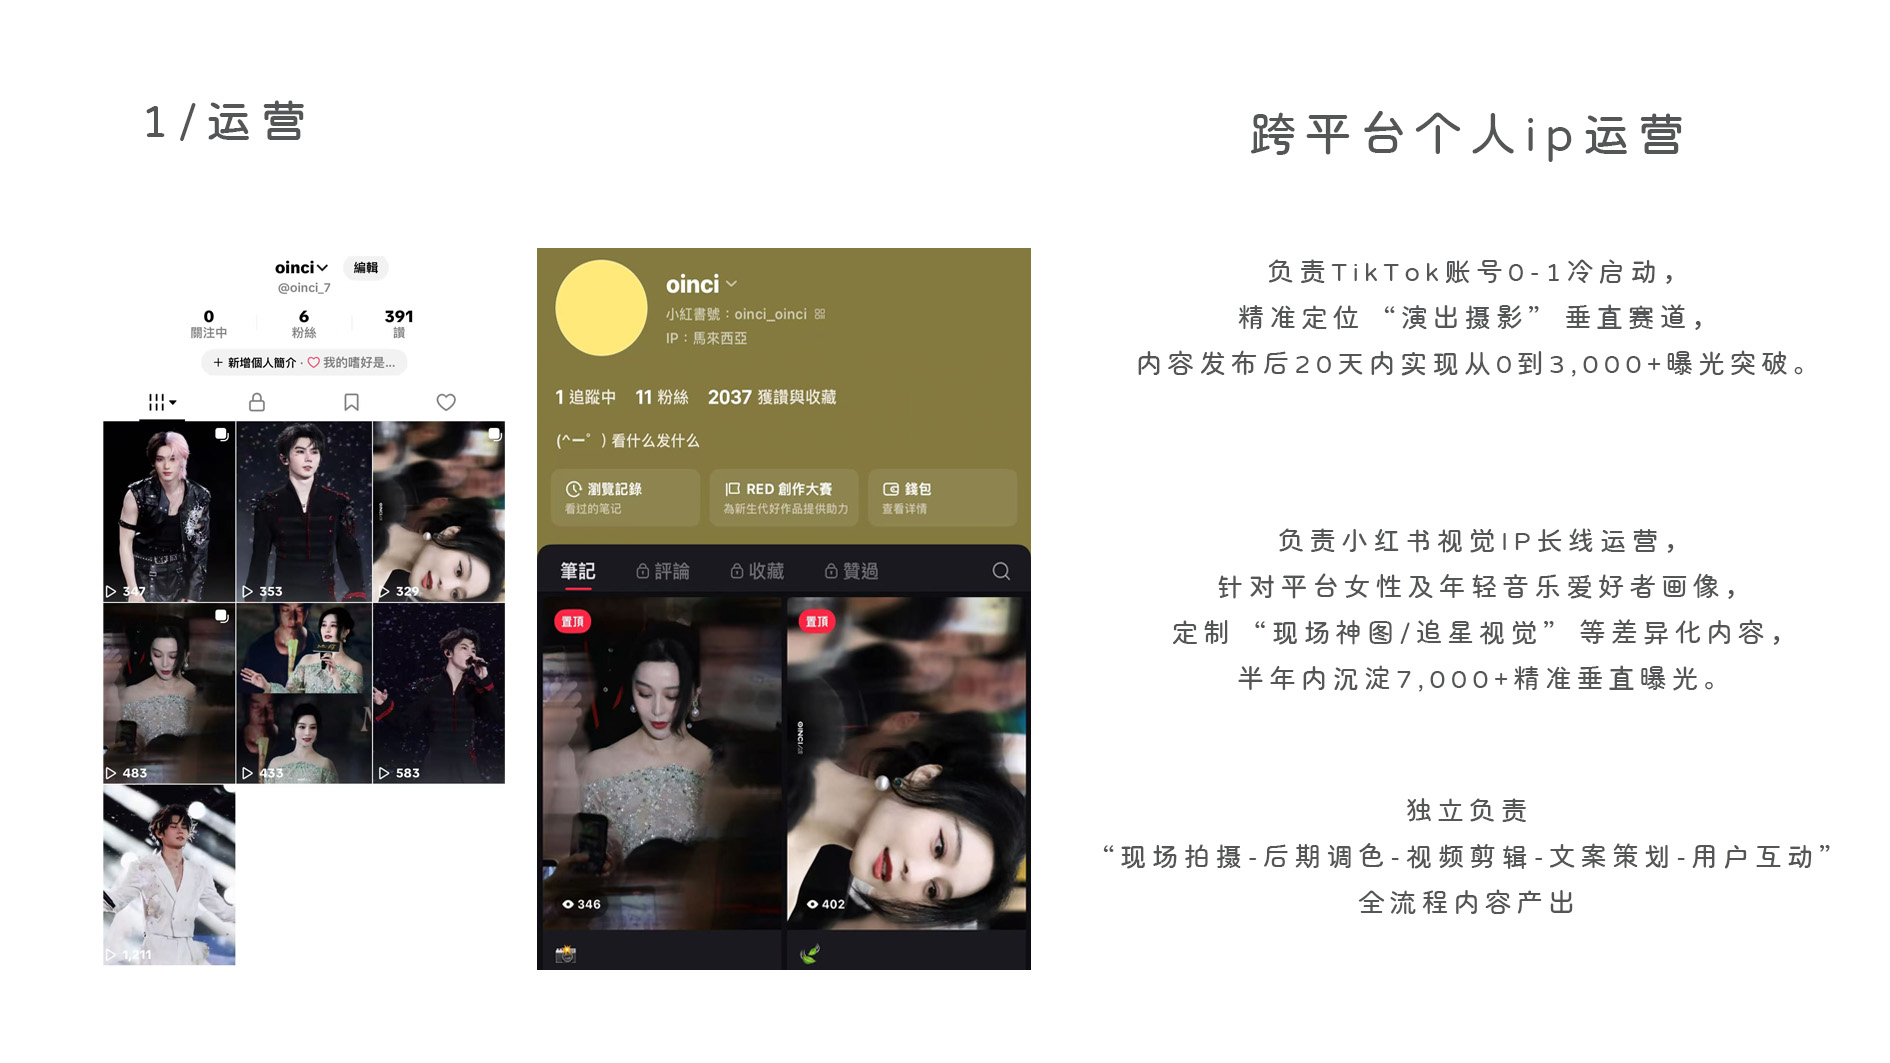
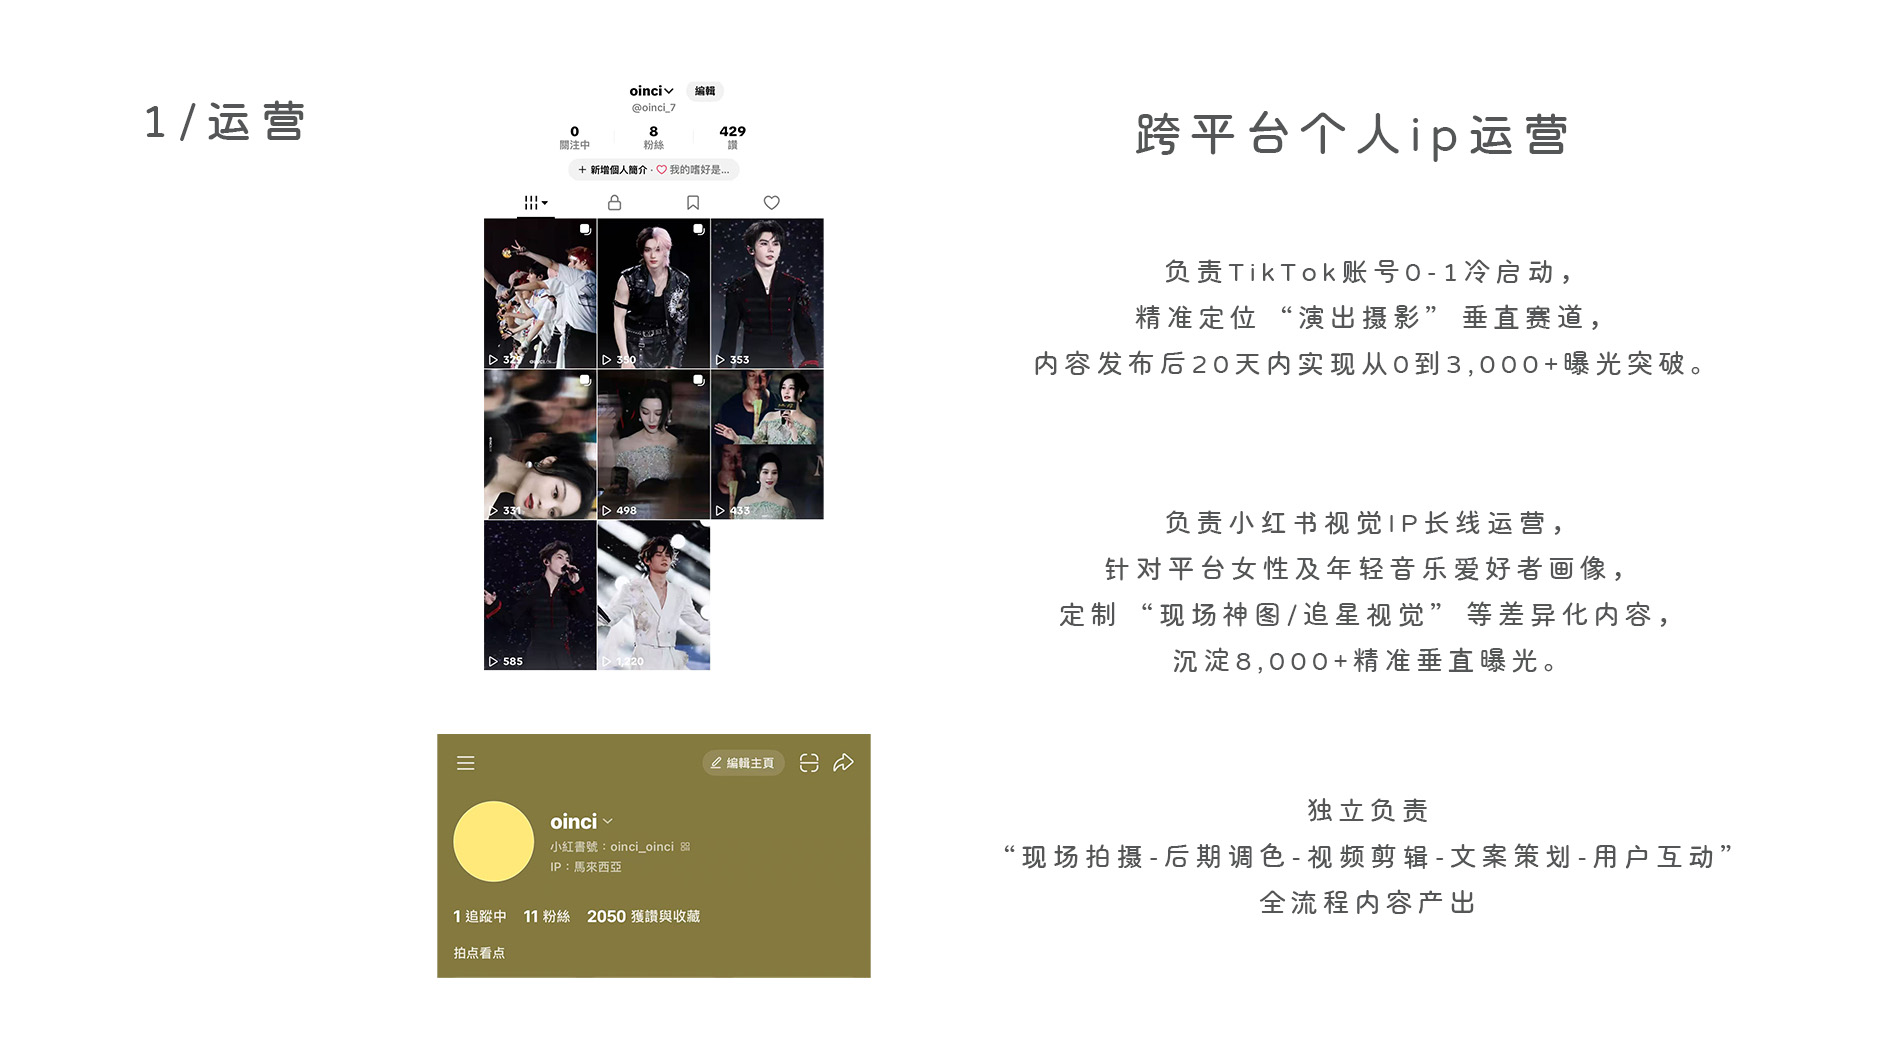
Update design images

diff --git a/index.html b/index.html
@@ -834,8 +834,7 @@ const SITE_DATA = {
         title: '设计案例',
         images: [
           'images/设计1.jpg',
-          'images/设计2.jpg',
-          'images/设计3.jpg'
+          'images/设计2.jpg'
       // ... 可以放任意多张
     ]
       }
